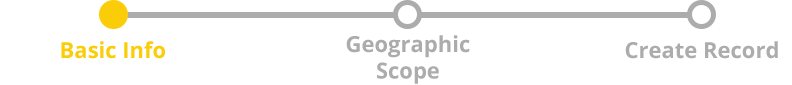
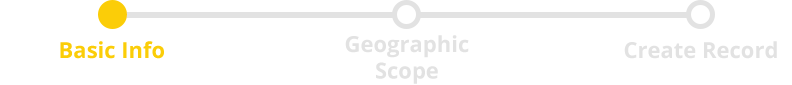
contribute progress

diff --git a/apps/details/templates/details/contribute.html b/apps/details/templates/details/contribute.html
@@ -12,8 +12,7 @@
     <section class="content-section" id="content-contribute">
         <div class="row">
             <div class="page-title" id="contribute-title">
-                <img src={% static "issf_base/img/logo-contribute.png" %} alt="">
-                <h1>Contribute</h1>
+                <h1>Contribute Data</h1>
             </div>
         </div>
         <div class="FormSection FormSectionBanner-contribute">
@@ -129,7 +128,7 @@
                             <dd class="accordion-navigation active">
                                 <div id="panel11" class="content m0p0">
                                     <div class="FormSection FormSectionBanner">
-                                        <h5 style="text-align: center; color: #FBCD06">Please provide the basic details for your Who's Who record</h5>
+                                        <h5 >Please provide the basic details for your Who's Who record</h5>
                                         <img 
                                             class="FormProgressBar" 
                                             src="{% static "issf_base/img/progress-basic.png" %}"
@@ -229,7 +228,7 @@
                             <dd class="accordion-navigation active">
                                 <div id="panel21" class="content m0p0">
                                     <div class="FormSection FormSectionBanner">
-                                        <h5 style="text-align: center; color: #FBCD06">Please provide the basic details of the SOTA Publication</h5>
+                                        <h5 >Please provide the basic details of the SOTA Publication</h5>
                                         <img 
                                             class="FormProgressBar" 
                                             src="{% static "issf_base/img/progress-basic.png" %}"
@@ -277,7 +276,7 @@
                             <dd class="accordion-navigation active">
                                 <div id="panel61" class="content m0p0">
                                     <div class="FormSection FormSectionBanner">
-                                        <h5 style="text-align: center; color: #FBCD06">Please provide the basic details for the SSF Profile</h5>
+                                        <h5 >Please provide the basic details for the SSF Profile</h5>
                                         <img 
                                             class="FormProgressBar" 
                                             src="{% static "issf_base/img/progress-basic.png" %}"
@@ -328,7 +327,7 @@
                             <dd class="accordion-navigation active">
                                 <div id="panel41" class="content m0p0">
                                     <div class="FormSection FormSectionBanner">
-                                        <h5 style="text-align: center; color: #FBCD06">Please provide the basic details of the SSF-related organization</h5>
+                                        <h5 >Please provide the basic details of the SSF-related organization</h5>
                                         <img 
                                             class="FormProgressBar" 
                                             src="{% static "issf_base/img/progress-basic.png" %}"
@@ -392,7 +391,7 @@
                             <dd class="accordion-navigation active">
                                 <div id="panel41" class="content m0p0">
                                     <div class="FormSection FormSectionBanner">
-                                        <h5 style="text-align: center; color: #FBCD06">Please provide the basic details of the case study</h5>
+                                        <h5 >Please provide the basic details of the case study</h5>
                                         <img 
                                             class="FormProgressBar" 
                                             src="{% static "issf_base/img/progress-basic.png" %}"
@@ -426,7 +425,7 @@
                             <dd class="accordion-navigation active">
                                 <div id="panel61" class="content m0p0">
                                     <div class="FormSection FormSectionBanner">
-                                        <h5 style="text-align: center; color: #FBCD06">Please provide the basic details of the existing or needed capacity
+                                        <h5 >Please provide the basic details of the existing or needed capacity
                                             development</h5>
                                         <img 
                                             class="FormProgressBar" 
@@ -461,7 +460,7 @@
                             <dd class="accordion-navigation active">
                                 <div id="panel81" class="content m0p0">
                                     <div class="FormSection FormSectionBanner">
-                                        <h5 style="text-align: center; color: #FBCD06">Please provide the basic details of the blue justice alert</h5>
+                                        <h5 >Please provide the basic details of the blue justice alert</h5>
                                         <img 
                                             class="FormProgressBar" 
                                             src="{% static "issf_base/img/progress-basic.png" %}"
@@ -506,7 +505,7 @@
                             <dd class="accordion-navigation active">
                                 <div id="panel81" class="content m0p0">
                                     <div class="FormSection FormSectionBanner">
-                                        <h5 style="text-align: center; color: #FBCD06">Please provide the basic details of the SSF Guidelines documentation</h5>
+                                        <h5 >Please provide the basic details of the SSF Guidelines documentation</h5>
                                         <img 
                                             class="FormProgressBar" 
                                             src="{% static "issf_base/img/progress-basic.png" %}"

diff --git a/static_root/issf_base/issf-css/main.css b/static_root/issf_base/issf-css/main.css
@@ -322,6 +322,7 @@ footer {
     justify-content: center;
     color: white;
     margin: 0px;
+    text-shadow: 2px 2px 4px rgba(0,0,0,.4);
 }
 
 .bt-contributions-text {
@@ -1623,13 +1624,15 @@ form sup {
 }
 
 .page-title {
-    margin: -12px 0 10px;
-    padding: 14px 16px;
-    -webkit-border-radius: 6px;
-    -moz-border-radius: 6px;
-    -ms-border-radius: 6px;
-    border-radius: 6px;
-    background: url(../img/icon-lg2.png) no-repeat;
+    background-color: #2699FB;
+    margin: 1rem 0;
+    text-align: left;
+    padding: .75rem;
+    -webkit-border-radius: 3px;
+    -moz-border-radius: 3px;
+    -ms-border-radius: 3px;
+    border-radius: 3px;
+    height: inherit;
 }
 
 .page-title h1 {
@@ -1934,12 +1937,12 @@ form sup {
     width: 100%;
     align-items: center;
     float: left;
-    background: #1d4d9b;
+    background-color: #2699FB;
 }
 
 #contribute-title h1 {
     margin-left: 15px;
-    color: #fbcd04;
+    color: #fff;
 }
 
 nav .tabs .tab-title {
@@ -1950,12 +1953,20 @@ nav .tabs .tab-title {
 nav .tabs .tab-title > a {
     position: relative;
     padding: .75rem 0 .75rem 16px;
-    background: #bbb;
-    -webkit-border-radius: 6px;
-    -moz-border-radius: 6px;
-    -ms-border-radius: 6px;
-    border-radius: 6px;
+    margin-bottom: 10px;
+    background: #fff;
+    -webkit-box-shadow: 3px 3px 5px rgba(0,0,0,.4);
+    -moz-box-shadow: 3px 3px 5px rgba(0,0,0,.4);
+    box-shadow: 3px 3px 5px rgba(0,0,0,.4);
+    -webkit-border-radius: 3px;
+    -moz-border-radius: 3px;
+    -ms-border-radius: 3px;
+    border-radius: 3px;
     z-index: 1;
+}
+
+.tab-title.active a > h3 {
+    color: #fff!important;
 }
 
 nav .tabs .tab-title > a span {
@@ -2008,13 +2019,10 @@ nav .tabs .tab-title .pop:after {
 }
 
 nav .tabs .tab-title h3 {
-    color: #fff;
-    font-size: 0.9375rem;
+    color: #4D4F5C;
+    font-size: 0.9rem;
     font-weight: normal;
     margin-left: 36px;
-    -webkit-text-shadow: 1px 1px 4px #33333385;
-    -moz-text-shadow: 1px 1px 4px #33333385;
-    text-shadow: 1px 1px 4px #33333385;
 }
 
 nav .tabs .tab-title a[tabindex="0"] span {
@@ -2231,18 +2239,21 @@ nav .tabs .active a[tabindex="11"] span {
 .content-section h1 {
     font-size: 2rem;
     line-height: 1;
+    text-align: center;
 }
 
 .content-section h2 {
-    color: #1D4D9B;
+    color: #2699FB;
     font-size: 1.625rem;
     line-height: 1;
 }
 
 .content-section h3 {
-    color: #565656;
+    color: #fff;
+    text-shadow: 2px 2px 4px rgba(0,0,0,.4);
     font-size: 1.25rem;
     line-height: 1;
+    text-align: center;
 }
 
 .content-section h4 {
@@ -2252,9 +2263,12 @@ nav .tabs .active a[tabindex="11"] span {
 }
 
 .content-section h5 {
-    color: #275D97;
     font-size: 1rem;
     margin: 0.2rem 0;
+    text-align: center;
+    color: #fff;
+    text-shadow: 2px 2px 4px rgba(0,0,0,.4);
+    
 }
 
 .content-section h6 {
@@ -2308,7 +2322,7 @@ nav .tabs .active a[tabindex="11"] span {
 }
 
 .accordion-navigation.active {
-    background-color: #bababa;
+    /* background-color: #bababa; */
 }
 
 .accordion-navigation.active > a {
@@ -2338,6 +2352,7 @@ nav .tabs .active a[tabindex="11"] span {
     font-weight: bold;
     margin: 0 10px;
     background: #6FE7A9;
+    text-shadow: 2px 2px 4px rgba(0,0,0,.4);
     -webkit-border-radius: 3px;
     -moz-border-radius: 3px;
     -ms-border-radius: 3px;
@@ -2915,6 +2930,7 @@ form ul {
 
 .accordion .accordion-navigation, .accordion dd {
     margin-bottom: 5px !important;
+    background-color: transparent;
 }
 
 /* Ji's override for advanced search */
@@ -2963,7 +2979,7 @@ form ul {
 
 /* Active Accordion background color */
 .report .accordion-navigation.active {
-    background-color: #bababa;
+    background-color: transparent;
 }
 
 /*
@@ -3020,7 +3036,7 @@ footer, footer * {
 
 /* Adding styles for AddAnother/HelpRate buttons */
 .blueOrangeButton {
-    background-color: #1D4D9B;
+    /* background-color: #1D4D9B; */
     -webkit-transition-property: background;
     -webkit-transition-duration: .3s;
     transition-property: background;

diff --git a/static_root/issf_base/issf-css/HJForms.css b/static_root/issf_base/issf-css/HJForms.css
@@ -8,13 +8,15 @@
 .FormSection {
     margin: 10px;
     padding: 10px;
-    border-radius: 5px;
-    box-shadow: 1px 1px 10px rgba(0,0,0,.4);
-    background-color: #d0d0d0;
+    border-radius: 3px;
+    -webkit-box-shadow: 3px 3px 5px rgba(0,0,0,.4);
+    -moz-box-shadow: 3px 3px 5px rgba(0,0,0,.4);
+    box-shadow: 3px 3px 5px rgba(0,0,0,.4);
+    background-color: #fff;
 }
 
 .FormSectionBanner {
-    background-color: #1D4D9B;
+    background-color: #2699FB;
     display: grid;
     grid-template-rows: 1fr 1fr;
     grid-gap: 15px;
@@ -22,12 +24,12 @@
 
 .FormSectionBanner-contribute {
     width: 1000px;
-    margin: -10px auto 0 auto;
-    box-shadow: none;
+    margin: .25rem auto 1rem auto;
 }
 
 .FormProgressBar {
-    height: 120%;
+    height: 40px;
+    width: auto;
     margin: -8px auto;
 }
 
@@ -52,7 +54,7 @@
 
 /* the scope buttons */
 .FormGeog > ul > li {
-    background-color: #1D4D9B;
+    background-color: #2699FB;
     border-radius: 25px;
     padding: 5px 25px;
     border: 3px solid #fbcd04;
@@ -71,6 +73,7 @@
     display: flex;
     margin: -20px;
     padding: 20px;
+    font-weight: bold;
     color: #fbcd04;
     align-items: center;
 }
@@ -87,7 +90,6 @@ ul#id_geographic_scope_type input[type="radio"]:after {
     padding-right: 5px;
     margin-left: -5px;
     margin-top: 7px;
-    background-color: #1D4D9B;
     content: '';
     display: inline-block;
     visibility: visible;
@@ -109,10 +111,9 @@ ul#id_geographic_scope_type input[type="radio"]:checked:after {
 }
 
 .FormGeogLabel > label {
-    color: #1D4D9B!important;
+    color: #4D4F5C;
     font-weight: bold;
     font-size: 1.5rem;
-    text-decoration: underline;
 }
 
 /* Toggler */

diff --git a/apps/details/templates/details/geographic_scope_save.html b/apps/details/templates/details/geographic_scope_save.html
@@ -15,7 +15,7 @@
                     <dd class="accordion-navigation active">
                         {% if editor %}
                             <div class="FormSection FormSectionBanner">
-                                <h3 style="text-align: center; color: #FBCD06">Please indicate the geographic scope of the record.</h3>
+                                <h3 >Please indicate the geographic scope of the record.</h3>
                                 <img 
                                     class="FormProgressBar" 
                                     src="{% static "issf_base/img/progress-geo.png" %}"

diff --git a/static_root/details/css/details.css b/static_root/details/css/details.css
@@ -225,4 +225,5 @@ div.faq-container p {
 
 .staffbox h5, .staffbox label {
     color: #f16a2c;
+    text-align: left;
 }
